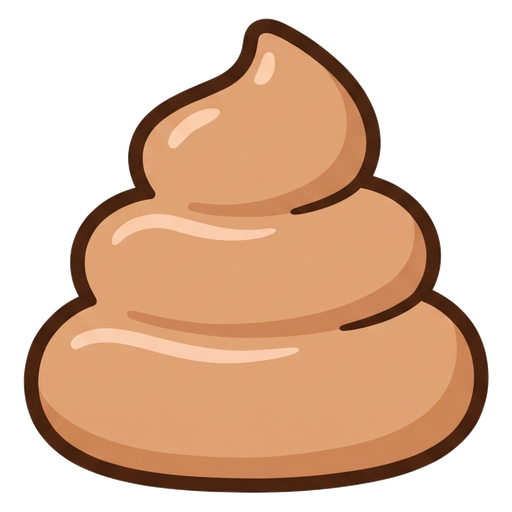
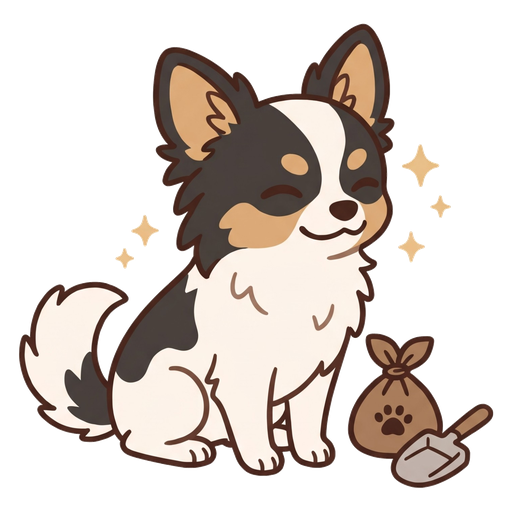
Adopt Ohagi poop scene art as the style reference for button art

diff --git a/docs/asset-licenses.md b/docs/asset-licenses.md
@@ -11,3 +11,6 @@
 | ボタンの絵：うんち（ソフトクリーム型、顔なし） | `assets/kinds/poop.png` | Google Gemini で生成（2000px の JPEG）→ `tools/prepare_kind_art.py` で白を抜いて 512px PNG | おはぎきなこ工房（Gemini で生成） | 同上 | 不要 | 2026-11-17 |
 | ボタンの絵：おみず（犬用の水入れ） | `assets/kinds/water.png` | Google Gemini で生成（2000px の JPEG）→ `tools/prepare_kind_art.py` で白を抜いて 512px PNG | おはぎきなこ工房（Gemini で生成） | Google の生成 AI の利用規約に従う（App Store に出す前に最新の規約を確認） | 不要 | 2026-11-17 |
 | ボタンの絵：ごはん（ドッグフードのお皿、骨のマーク） | `assets/kinds/food.png` | 同上 | おはぎきなこ工房（Gemini で生成） | 同上 | 不要 | 2026-11-17 |
+
+## ボタンの絵（おはぎの場面、2026-11-17〜）
+- `assets/kinds/poop.png`：Gemini で工房が作成（元画像 `docs/art/buttons/poop_gemini.jpg`、見本は工房のおはぎ）。`tools/prepare_kind_art.py` で白背景を抜いて 512px。工房の素材として公開・アプリ内利用可。

diff --git a/docs/art/buttons.md b/docs/art/buttons.md
@@ -4,6 +4,9 @@
 > そこで **おはぎが主役の「場面」の絵** に変えます（うんちそのもの・しずくそのものは描かない）。
 > Watch のボタンは絵だけ（文字なし）、iPhone は絵の下に小さく文字。文字盤と一覧の印は 💩 をやめて ●（茶）・しずく に。
 
+> **絵柄の基準（2026-11-17 決定）**：うんちの絵 `C:\Users\sunay\Claude\chiwa-walk\docs\art\buttons\poop_gemini.jpg`（太く均一なこげ茶の線・平たい塗り・目を細めた笑顔）。
+> ほかの3枚は、この絵を添付して「この絵と同じ描き方で」と頼む。立体的な塗りや細かい毛の線の絵（1回目のおしっこ）は不採用。
+
 ## 手順
 1. Gemini（画像を作れるモデル）に、見本の絵 **`C:\Users\sunay\Claude\chiwa-walk\docs\art\icon\reference_ohagi.png`** を添付して、下の「おねがいの文」を貼る。「場面」を4つ順に入れかえて、1枚ずつ。
    - 2枚目からは、気に入った1枚目も添付して「この絵と同じ描き方で」と添える。
